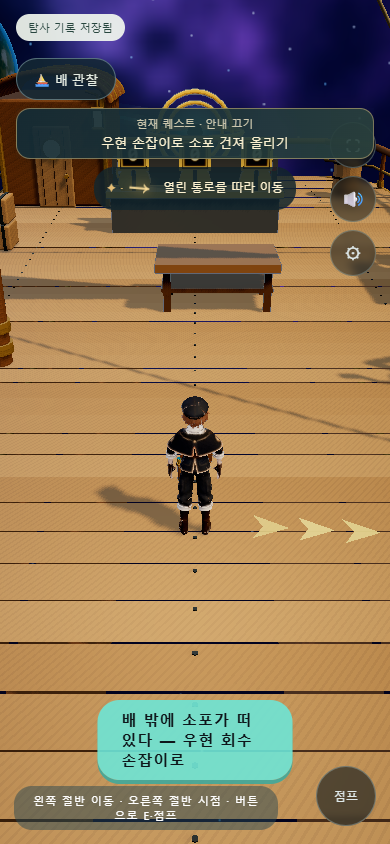
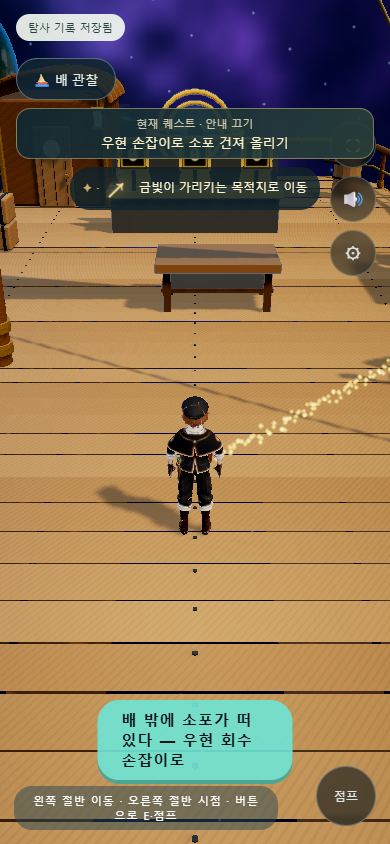
Replace quest arrows with direct waist-high golden dust

diff --git a/src/ui/QuestGuide.js b/src/ui/QuestGuide.js
@@ -69,44 +69,54 @@ export function buildQuestGuide(getGame) {
   el.innerHTML='<button type="button" aria-pressed="false"><small>현재 퀘스트 · 눌러서 길 안내</small><span id="questText" aria-live="polite"></span></button><div id="questDirection" hidden><span id="questSparks" aria-hidden="true">✦ ·</span><span id="questArrow" aria-hidden="true">↑</span><span id="questDistance"></span></div>';document.body.appendChild(el);
   const button=el.querySelector('button'),label=el.querySelector('#questText'),arrow=el.querySelector('#questArrow'),direction=el.querySelector('#questDirection'),detail=el.querySelector('#questDistance');
   const trail=new THREE.Group();trail.name='퀘스트 길잡이';
-  const shape=new THREE.Shape();shape.moveTo(0,.24);shape.lineTo(.19,-.12);shape.lineTo(0,-.02);shape.lineTo(-.19,-.12);shape.closePath();
-  const geo=new THREE.ShapeGeometry(shape);
-  for(let i=0;i<3;i++){const m=new THREE.MeshBasicMaterial({color:0xffdc87,transparent:true,opacity:.8,side:THREE.DoubleSide,depthWrite:false});m.userData.outlineParameters={visible:false};trail.add(new THREE.Mesh(geo,m));}
+  // A direct, waist-high destination cue, rendered in one soft particle draw call.
+  const canvas=document.createElement('canvas');canvas.width=canvas.height=32;
+  const ctx=canvas.getContext('2d'),glow=ctx.createRadialGradient(16,16,0,16,16,16);
+  glow.addColorStop(0,'#fff');glow.addColorStop(.18,'#fffffff0');glow.addColorStop(.45,'#ffffff70');glow.addColorStop(1,'#ffffff00');
+  ctx.fillStyle=glow;ctx.fillRect(0,0,32,32);
+  const count=130,positions=new Float32Array(count*3),colors=new Float32Array(count*3),geo=new THREE.BufferGeometry();
+  geo.setAttribute('position',new THREE.BufferAttribute(positions,3).setUsage(THREE.DynamicDrawUsage));
+  geo.setAttribute('color',new THREE.BufferAttribute(colors,3).setUsage(THREE.DynamicDrawUsage));
+  const material=new THREE.PointsMaterial({map:new THREE.CanvasTexture(canvas),size:.095,vertexColors:true,transparent:true,depthWrite:false,blending:THREE.AdditiveBlending,toneMapped:false});
+  material.userData.outlineParameters={visible:false};
+  const dust=new THREE.Points(geo,material);dust.name='황금 가루 길';dust.frustumCulled=false;trail.add(dust);
+  const seed=i=>{const n=Math.sin(i*127.1+311.7)*43758.5453;return n-Math.floor(n);};
   const reduced=matchMedia('(prefers-reduced-motion: reduce)');let clock=0;
-  let enabled=false,lastId='',timer=0,path=[],quest;
+  let enabled=false,lastId='',quest;
   button.addEventListener('pointerdown',e=>e.stopPropagation());
-  button.addEventListener('click',()=>{enabled=!enabled;timer=0;getGame().input.reset();button.setAttribute('aria-pressed',String(enabled));});
+  button.addEventListener('click',()=>{enabled=!enabled;getGame().input.reset();button.setAttribute('aria-pressed',String(enabled));});
   return {get enabled(){return enabled;},get current(){return quest;},update(dt,hidden=false){
     trail.visible=false;clock+=dt;
     const g=getGame();quest=currentQuest(g);el.hidden=hidden||!quest;if(el.hidden)return;
-    if(quest.id!==lastId){lastId=quest.id;label.textContent=quest.text;timer=0;}
+    if(quest.id!==lastId){lastId=quest.id;label.textContent=quest.text;}
     button.querySelector('small').textContent=enabled?'현재 퀘스트 · 안내 끄기':'현재 퀘스트 · 눌러서 길 안내';
     direction.hidden=!enabled;if(!enabled)return;
     if(!quest.target){arrow.hidden=true;detail.textContent=quest.hint;return;}
     const actor=g.mode==='planet'?g.player:g.roomActor,from=actor.position,up=g.mode==='planet'?from.clone().normalize():new THREE.Vector3(0,1,0);
     let target=quest.target,dist=g.mode==='planet'?from.angleTo(target)*from.length():from.distanceTo(target);
     if(dist<(g.mode==='lab'?.65:1.8)){arrow.hidden=true;detail.textContent=quest.hint;return;}
-    if(g.mode!=='planet'){
-      timer-=dt;if(timer<=0){path=floorRoute(from,target,actor.rects,actor.obstacles);timer=.65;}
-      while(path.length>1&&from.distanceTo(path[0])<1)path.shift();
-      if(!path.length){arrow.hidden=true;detail.textContent='주변 장치와 열린 통로를 살펴보자';return;}
-      target=path[Math.min(1,path.length-1)];
-    }
     const forward=new THREE.Vector3();g.engine.camera.getWorldDirection(forward);forward.addScaledVector(up,-forward.dot(up)).normalize();
     const right=forward.clone().cross(up).normalize(),toward=target.clone().sub(from);toward.addScaledVector(up,-toward.dot(up)).normalize();
     if(toward.lengthSq()>.1){
       if(trail.parent!==g.engine.scene)g.engine.scene.add(trail);trail.visible=true;
-      trail.children.forEach((mesh,i)=>{
-        const offset=Math.min(.7+i*.45,from.distanceTo(target)),p=from.clone().addScaledVector(toward,offset);
+      const time=reduced.matches?0:clock;
+      const end=target.clone();
+      if(g.mode!=='planet')end.y=actor.floorAt(end.x,end.z);
+      const side=toward.clone().cross(up).normalize();
+      for(let i=0;i<count;i++){
+        const phase=(i/count+time*.19)%1;
+        const p=from.clone().lerp(end,phase);
+        p.addScaledVector(side,(seed(i)-.5)*.16+Math.sin(time*1.3+i)*.012);
         const normal=g.mode==='planet'?p.clone().normalize():up;
-        if(g.mode==='planet')p.copy(g.planet.surfaceAt(normal));else p.y=actor.floorAt(p.x,p.z);
-        mesh.position.copy(p).addScaledVector(normal,.09);
-        const tangent=toward.clone().addScaledVector(normal,-toward.dot(normal)).normalize();
-        mesh.quaternion.setFromRotationMatrix(new THREE.Matrix4().makeBasis(tangent.clone().cross(normal).normalize(),tangent,normal));
-        mesh.material.opacity=reduced.matches?.8:.55+.3*Math.sin(clock*4-i);
-      });
+        if(g.mode==='planet')p.copy(g.planet.surfaceAt(normal));
+        p.addScaledVector(normal,.75+(seed(i+count)-.5)*.10+Math.sin(time*2+i)*.015);
+        p.toArray(positions,i*3);
+        const fade=Math.min(1,phase*9,(1-phase)*6),spark=.65+.35*Math.pow(Math.sin(time*2.3+i*1.7),6);
+        colors[i*3]=fade*spark;colors[i*3+1]=fade*spark*(.57+seed(i+7)*.22);colors[i*3+2]=fade*spark*.16;
+      }
+      geo.attributes.position.needsUpdate=true;geo.attributes.color.needsUpdate=true;
     }
     arrow.hidden=false;arrow.style.transform=`rotate(${Math.atan2(toward.dot(right),toward.dot(forward))}rad)`;
-    detail.textContent=g.mode==='planet'?`목적지 방향 · 약 ${Math.ceil(dist)}걸음`:'열린 통로를 따라 이동';
+    detail.textContent=g.mode==='planet'?`목적지 방향 · 약 ${Math.ceil(dist)}걸음`:'금빛이 가리키는 목적지로 이동';
   }};
 }

diff --git a/reports/2026-09-10/QUEST_GOLD_DUST.md b/reports/2026-09-10/QUEST_GOLD_DUST.md
@@ -1,0 +1,11 @@
+# 퀘스트 금가루 길
+
+바닥의 화살표 3개를 작은 황금 입자가 이어지는 길로 교체했다. 퀘스트 버튼으로 켜고 끄는 방식과 상단 방향 표시는 유지한다.
+
+- 입자 130개(기존의 절반)가 캐릭터에서 목적지까지 직접 이어져 흐른다. 격자 경로를 따라 꺾지 않는다.
+- 가장자리와 시작·끝은 은은하게 사라지고, 캐릭터 허리 높이인 약 0.75미터에서 반짝인다.
+- 행성에서는 표면 높이에 맞춘다. 입자는 깊이 검사를 사용하므로 물체 뒤에서는 가려진다.
+- 움직임 줄이기 설정에서는 흐름과 반짝임을 정지한다.
+- 하나의 Points 객체와 공유 텍스처를 사용한다.
+
+PC·모바일 퀘스트 검사로 진행 단계, 안내 토글, 저장 불변, 화면 배치를 확인한다. 기존 경로 함수의 닫힌 문·장애물 검사도 유지하지만, 입자 안내는 목적지를 직접 가리키므로 해당 경로 함수를 사용하지 않는다. 퀘스트나 퍼즐 진행 로직은 변경하지 않았다.
